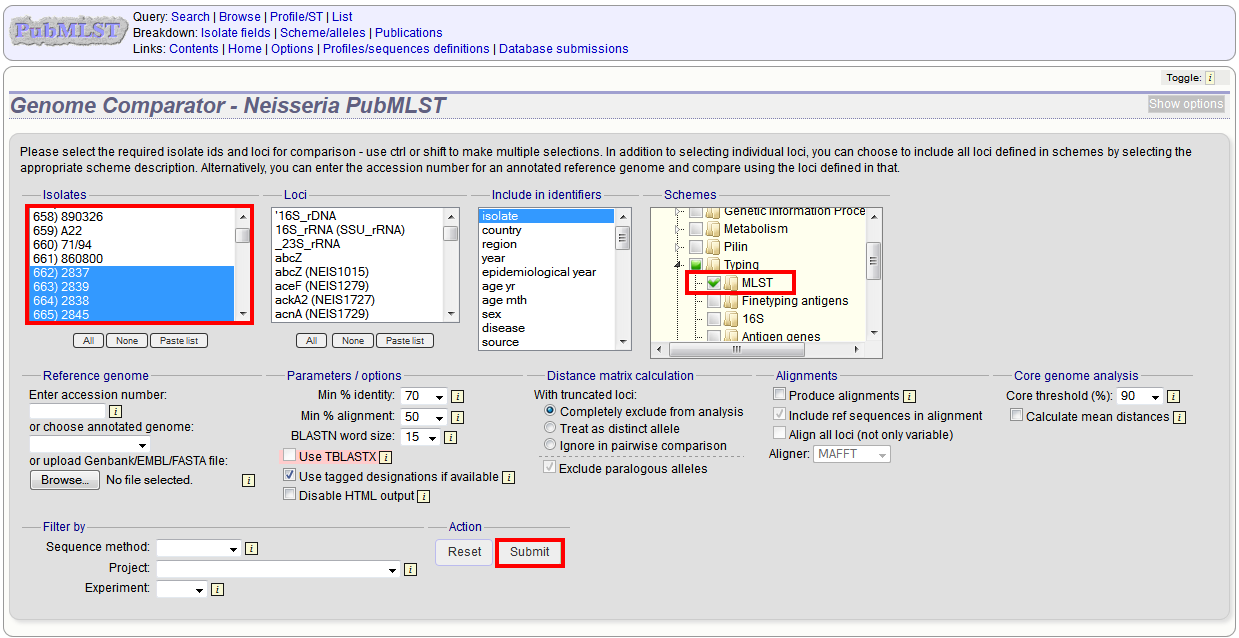
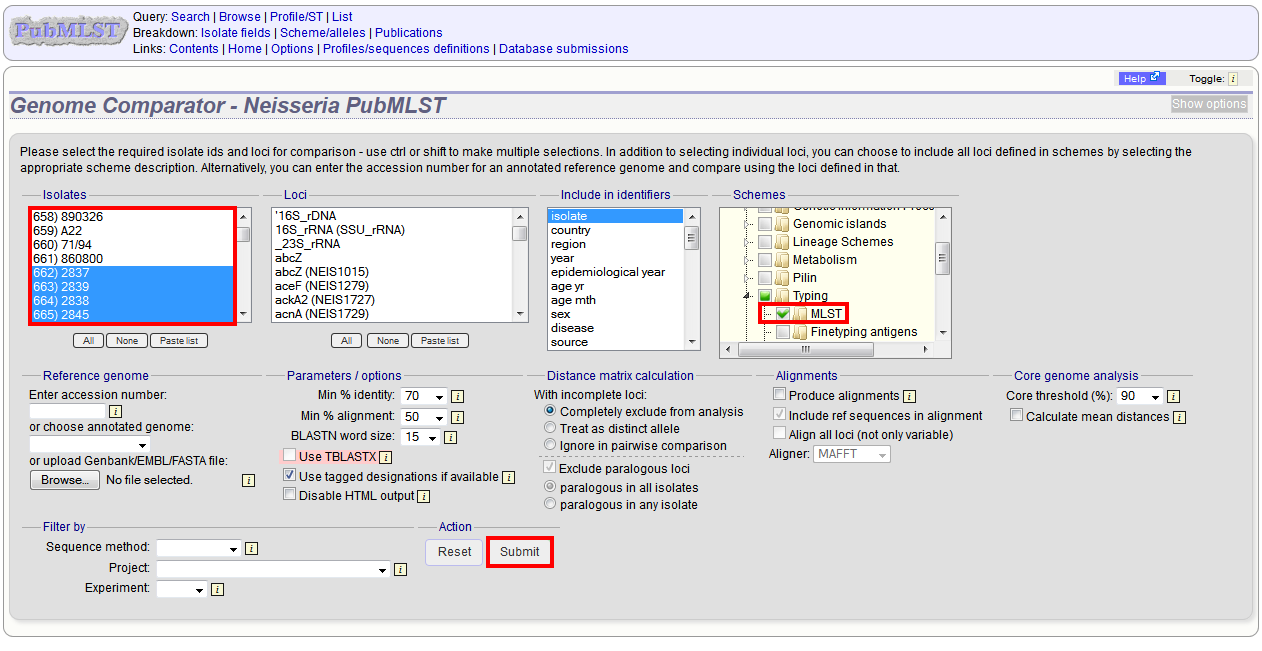
Genome Comparator distance matrix - update of paralogous loci options.

Changed region(s): [[0.0, 0.0, 1.0, 1.0]]

diff --git a/data_analysis.rst b/data_analysis.rst
@@ -283,17 +283,26 @@ There will be a series of tables displaying variable loci, colour-coded to indic
 
 Analysis using annotated reference genome
 =========================================
-Select the isolate genomes that you wish to analyse and then either enter a Genbank accession number for the reference genome, or select from the list of reference genomes (this list will only be present if the administrator has :ref:`set it up <isolate_xml>`). Selecting reference genomes will hide the locus and scheme selection forms.
+Select the isolate genomes that you wish to analyse and then either enter a
+Genbank accession number for the reference genome, or select from the list of
+reference genomes (this list will only be present if the administrator has 
+:ref:`set it up <isolate_xml>`). Selecting reference genomes will hide the 
+locus and scheme selection forms.
 
 .. image:: /images/data_analysis/genome_comparator6.png
 
-Output is similar to when comparing against defined loci, but this time every coding sequence in the annotated reference will be BLASTed against the selected genomes. Because allele designations are not defined, the allele found in the reference genome is designated allele 1, the next different sequence is allele 2 etc.
+Output is similar to when comparing against defined loci, but this time every
+coding sequence in the annotated reference will be BLASTed against the selected
+genomes. Because allele designations are not defined, the allele found in the
+reference genome is designated allele 1, the next different sequence is allele
+2 etc.
 
 .. image:: /images/data_analysis/genome_comparator10.png
 
 Include in identifiers fieldset
 ===============================
-This selection box allows you to choose which isolate provenance fields will be included in the results table and sequence exports.
+This selection box allows you to choose which isolate provenance fields will be
+included in the results table and sequence exports.
 
 .. image:: /images/data_analysis/genome_comparator7.png
 
@@ -301,7 +310,8 @@ Multiple values can be selected by clicking while holding down Ctrl.
 
 Reference genome fieldset
 =========================
-This section allows you to choose a reference genome to use as the source of comparator sequences.
+This section allows you to choose a reference genome to use as the source of
+comparator sequences.
 
 .. image:: /images/data_analysis/genome_comparator8.png
 
@@ -313,19 +323,43 @@ There are three possibilities here:
 
 Parameters/options fieldset
 ===========================
-This section allows you to modify BLAST parameters.  This affects sensitivity and speed.
+This section allows you to modify BLAST parameters.  This affects sensitivity
+and speed.
 
 .. image:: /images/data_analysis/genome_comparator9.png
 
-* Min % identity - This sets the threshold identity that a matching sequence has to be in order to be considered (default: 70%).  Only the best match is used.
-* Min % alignment - This sets the percentage of the length of reference allele sequence that the alignment has to cover in order to be considered (default: 50%).
-* BLASTN word size - This is the length of the initial identical match that BLAST requires before extending a match (default: 15).  Increasing this value improves speed at the expense of sensitivity.  The default value gives good results in most cases, but increasing this to 20 is almost as good (there was 1 difference among 2000 loci in a test run) and will speed up the analysis approximately two-fold.
-* Use TBLASTX - This compares the six-frame translation of your nucleotide query sequence against the six-frame translation of the contig sequences.  Sequences will be classed as identical if they result in the same translated sequence even if the nucleotide sequence is different.  This is significantly slower than using BLASTN.
+* Min % identity - This sets the threshold identity that a matching sequence
+  has to be in order to be considered (default: 70%).  Only the best match is
+  used.
+* Min % alignment - This sets the percentage of the length of reference allele
+  sequence that the alignment has to cover in order to be considered (default: 
+  50%).
+* BLASTN word size - This is the length of the initial identical match that
+  BLAST requires before extending a match (default: 15).  Increasing this value
+  improves speed at the expense of sensitivity.  The default value gives good
+  results in most cases, but increasing this to 20 is almost as good (there was
+  1 difference among 2000 loci in a test run) and will speed up the analysis
+  approximately two-fold.
+* Use TBLASTX - This compares the six-frame translation of your nucleotide
+  query sequence against the six-frame translation of the contig sequences. 
+  Sequences will be classed as identical if they result in the same translated
+  sequence even if the nucleotide sequence is different.  This is significantly
+  slower than using BLASTN.
 
 Additionally, two other options are available in this fieldset:
 
-* Use tagged designations - When analysing using defined loci, Genome Comparator can use the designations stored within the database (this is the default).  This is much quicker since it doesn't need to run BLAST against these sequences.  If a designation is missing, BLAST will be run for that locus anyway.
-* Disable HTML output - If running Genome Comparator against a large number of genomes, the resulting table may get so large that your web browser struggles to render it properly and may use up too much memory on your computer.  Clicking this button prevents this output - this output is not required for further analysis since everything present in it is also generated in Excel format at the end.  HTML output is automatically disabled when more than 150 genomes are analysed. 
+* Use tagged designations - When analysing using defined loci, Genome
+  Comparator can use the designations stored within the database (this is the
+  default).  This is much quicker since it doesn't need to run BLAST against
+  these sequences.  If a designation is missing, BLAST will be run for that
+  locus anyway.
+* Disable HTML output - If running Genome Comparator against a large number of
+  genomes, the resulting table may get so large that your web browser struggles
+  to render it properly and may use up too much memory on your computer. 
+  Clicking this button prevents this output - this output is not required for
+  further analysis since everything present in it is also generated in Excel
+  format at the end.  HTML output is automatically disabled when more than 150
+  genomes are analysed. 
 
 Distance matrix calculation fieldset
 ====================================
@@ -338,26 +372,40 @@ For incomplete loci, i.e. those that continue beyond the end of a contig so
 are incomplete you can:
 
 * Completely exclude from analysis - Any locus that is incomplete in at least 
-  one isolate will be removed from the analysis completely (default).  Using this
-  option means that if there is one bad genome with a lot of incomplete sequences
-  in your analysis, a large proportion of the loci may not be used to calculate
+  one isolate will be removed from the analysis completely.  Using this option
+  means that if there is one bad genome with a lot of incomplete sequences in
+  your analysis, a large proportion of the loci may not be used to calculate
   distances.
 
 * Treat as a distinct allele - This treats all incomplete sequences as a
-  specific allele 'T'.  This varies from any other allele, but all incomplete
+  specific allele 'I'.  This varies from any other allele, but all incomplete
   sequences will be treated as though they were identical.
 
-* Ignore in pairwise comparison - This is probably the best option (and will
-  likely become the default).  In this case, incomplete alleles are only excluded
-  from the analysis when comparing the particular isolate that has it.  Other
-  isolates with different alleles will be properly included.  The affect of this
-  option will be to shorten the distances of isolates with poorly sequenced
-  genomes with the others.
+* Ignore in pairwise comparison (default) - This is probably the best option.
+  In this case, incomplete alleles are only excluded from the analysis when
+  comparing the particular isolate that has it.  Other isolates with different
+  alleles will be properly included.  The effect of this option will be to
+  shorten the distances of isolates with poorly sequenced genomes with the
+  others.
 
 Paralogous loci, i.e. those with multiple good matches, can be excluded from
 the analysis (default).  This is the safest option since there is no guarantee
 that differences seen between isolates at paralogous loci are real if the
-alternative matches are equally good.
+alternative matches are equally good.  NB: Loci are also only classed as
+paralogous when the alternative matches identify different sequences, otherwise
+multiple contigs of the same sequence region would result in false positives.
+
+When paralogous loci are excluded, there are two further options:
+
+* Exclude when paralogous in all isolates (default).  Loci are only classed as
+  paralogous when there are multiple hits in every genome (except if a genome
+  is missing the locus entirely, in which case that genome is ignored in the
+  calculation).  This is generally the option that you will want to use with
+  the default BLAST parameters since you can often expect multiple hits even
+  when loci are not paralogous if you have used relaxed thresholds.
+* Exclude when paralogous in any isolate.  Unless you use stringent BLAST
+  thresholds, this is likely to overestimate the number of paralogous loci, but
+  may be useful if you are specifically looking for them.
 
 Alignments fieldset
 ===================
